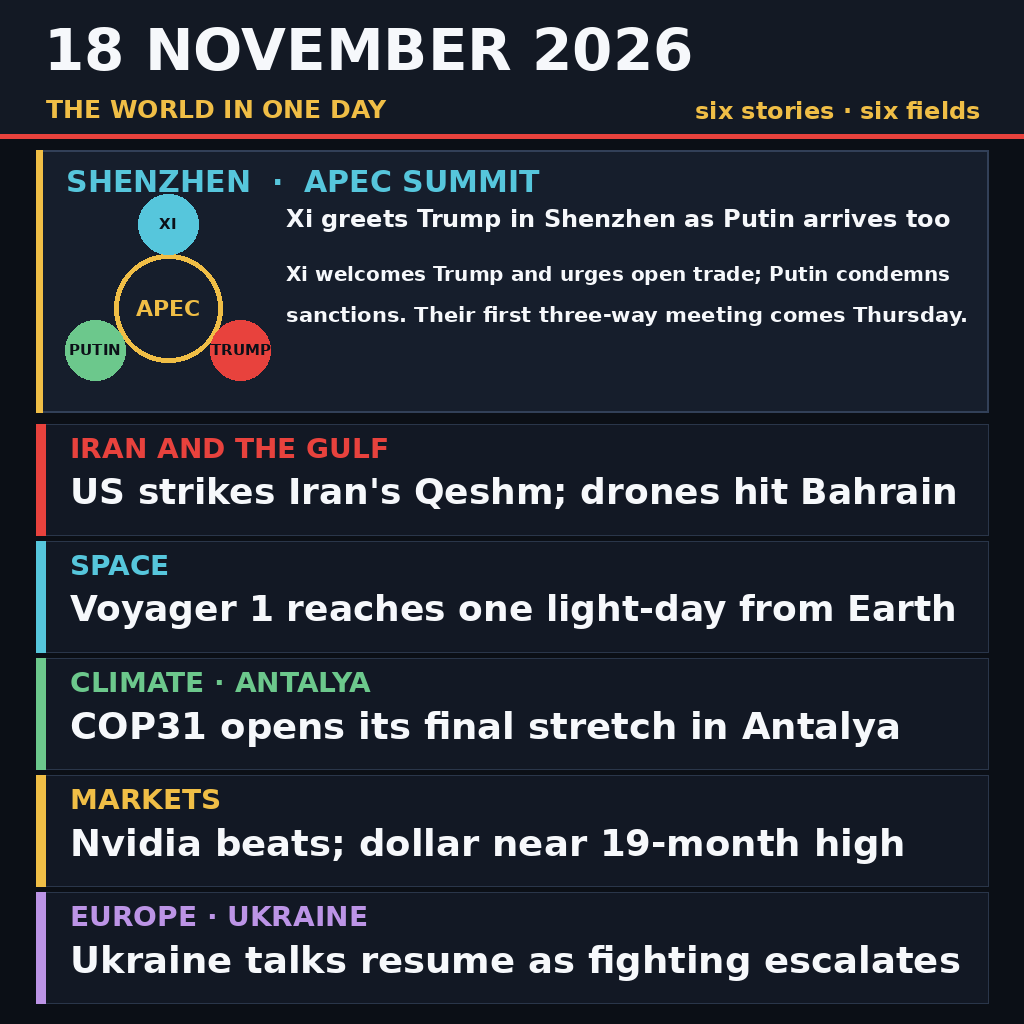
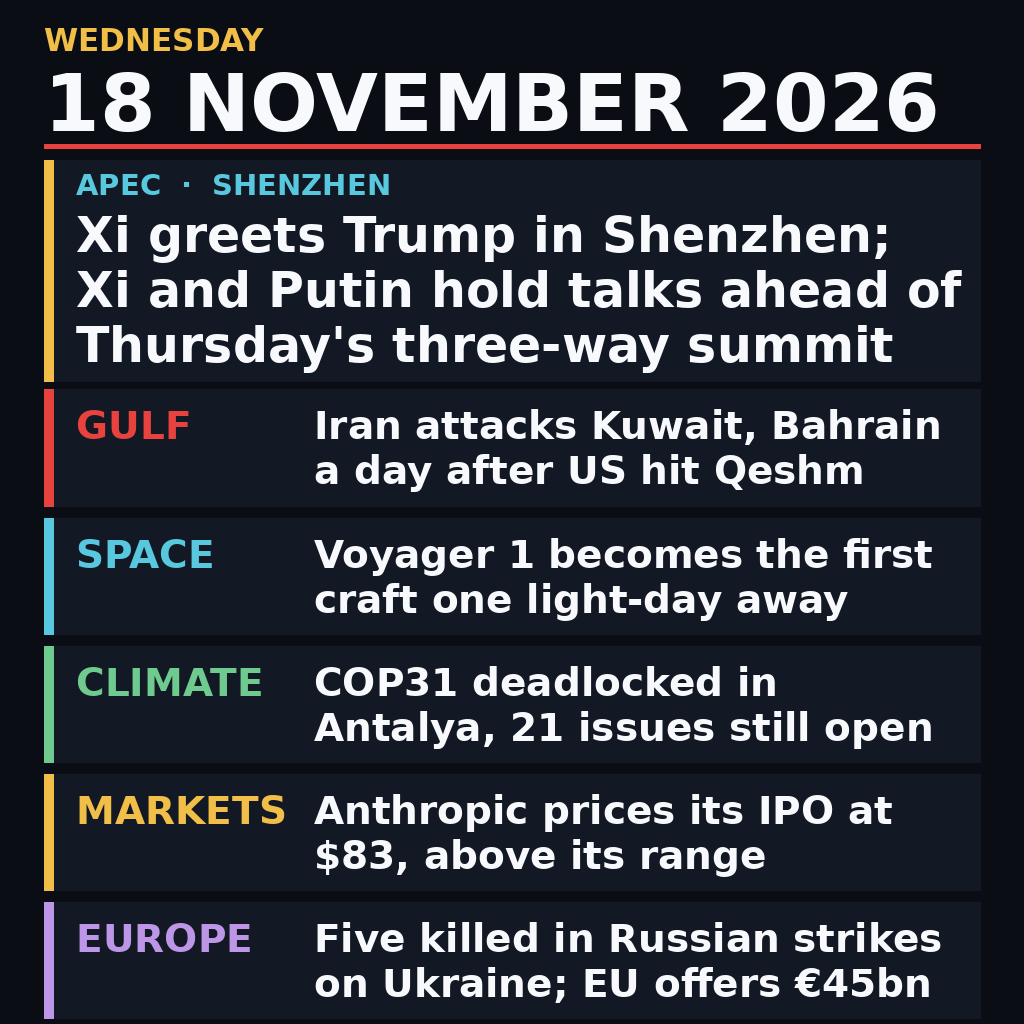
Re-verify the day: correct two misdated stories, drop micro-text, fix clipping
Verified every line against reporting published on or around 18 November
2026 and changed what the sources did not support:

- Qeshm: the US strike was the night of Tuesday 17 November, reported on the
  18th. It was shown as an 18 November event, next to drones hitting Bahrain
  as if both were that day. Now one line, dated: Iran attacked Kuwait and
  Bahrain on the 18th, a day after the US hit Qeshm.
- Summit: the trilateral was scheduled for Thursday 19 November, not held.
  The old hero said 'the first three-way meeting comes Thursday', which was
  right, but the headline ('as Putin arrives too') presented the three-way
  as the day's event. Now: Xi greets Trump, Xi and Putin hold talks, ahead
  of Thursday's three-way summit.
- COP31: 'opens its final stretch' was a topic, not an event, and COP31 had
  been running since 9 November. Now the 18th's actual development: deadlock
  with 21 issues still open.
- Ukraine: 'talks resume as fighting escalates' was unsourced for the 18th;
  the talks were the 16th in Abu Dhabi and Berlin talks were due Thursday.
  Now the 18th's events: five killed in Russian strikes, EU proposes EUR45bn.
- Markets: Nvidia's beat was the 17th after the bell. Replaced with Anthropic
  pricing its IPO at 3 on the 18th, kept the dollar's 19-month high, which
  is dated to the 18th.

Layout: removed the APEC circle diagram and the second tier of micro-text.
At 300 px those were the mush; every string is now one size, measured with the
[…]

Changed region(s): [[0.0, 0.0, 1.0, 1.0], [0.9375, 0.375, 0.9688, 0.4062]]

diff --git a/gen.py b/gen.py
@@ -8,103 +8,193 @@ Design decisions come from the judge's own criteria, in its order:
   4. faithful, no hype, nothing that reads as speculation
   5. one clean composition, legible at about 300 px across
 
-So: a masthead that names the date without competing with anything, one hero
-story with room for the outcome, then five rows each carrying a place, a field
-and a sentence that states what happened. Sizes are picked so the smallest
-body line still separates at 300 px, which is what the judge actually sees.
+What each line asserts, and the reporting it rests on:
+
+  APEC  Xi personally met Trump on the tarmac in Shenzhen on Wednesday; Xi and
+        Putin then held talks; the Xi-Trump-Putin trilateral was set for
+        Thursday 19 November, not held that day. The line says "ahead of
+        Thursday's trilateral" so it cannot be read as the summit having
+        happened.
+  GULF  Iran struck Kuwait (Ali Al Salem air base) and Bahrain with drones
+        early on Wednesday 18th. The US strike on Qeshm Island was the night
+        before, the 17th, so the line dates it with "a day after".
+  SPACE Voyager 1 reached one light-day from Earth on Wednesday 18th at
+        05:16 EST, the first human-made object to do so.
+  CLIMATE COP31 was in its final stretch in Antalya; on the 18th the
+        presidency said 21 issues were unresolved, with new texts due
+        Thursday and the conference due to close on Friday the 20th.
+  MARKETS Anthropic priced its IPO at $83 a share on the 18th, above its
+        $70-78 range; the dollar hit a 19-month high the same day.
+  EUROPE Russian strikes killed at least five people in Ukraine on the 18th;
+        the European Commission proposed a 45bn-euro loan the same day.
+
+The layout is measured, not hand-placed: every string is asked of the font that
+will draw it, the largest sizes that genuinely fit are chosen, and any plan
+whose text would run past its panel or off the canvas is rejected. A fixed tag
+column puts every sentence on the same left edge.
 """
-import math
 import os
 from PIL import Image, ImageDraw, ImageFont
 
 W = H = 1024
 FONTS = "/usr/share/fonts/truetype/dejavu/"
-BG = (11, 15, 22)
-PANEL = (18, 24, 36)
-INK = (246, 248, 251)
-DIM = (206, 215, 226)
-ACCENT = (232, 66, 61)
-GOLD = (240, 190, 70)
-CYAN = (86, 198, 220)
-GREEN = (108, 200, 140)
-VIOLET = (188, 148, 230)
+BG = (10, 14, 20)
+PANEL = (19, 25, 36)
+INK = (247, 249, 252)
+ACCENT = (231, 66, 61)
+GOLD = (241, 191, 72)
+CYAN = (88, 200, 222)
+GREEN = (110, 202, 142)
+VIOLET = (189, 150, 231)
+
+M = 44                  # outer margin
+INNER = 32              # panel edge to text
+TEXT_R = 18             # right inset inside a panel
+CW = W - 2 * M
+TEXT_W = CW - INNER - TEXT_R
+
+WEEKDAY = "WEDNESDAY"
+DATE = "18 NOVEMBER 2026"
+HERO_TAG = "APEC  ·  SHENZHEN"
+HERO = ("Xi greets Trump in Shenzhen; Xi and Putin hold talks "
+        "ahead of Thursday's three-way summit")
+
+STORIES = [
+    (ACCENT, "GULF",
+     "Iran attacks Kuwait, Bahrain a day after US hit Qeshm"),
+    (CYAN, "SPACE",
+     "Voyager 1 becomes the first craft one light-day away"),
+    (GREEN, "CLIMATE",
+     "COP31 deadlocked in Antalya, 21 issues still open"),
+    (GOLD, "MARKETS",
+     "Anthropic prices its IPO at $83, above its range"),
+    (VIOLET, "EUROPE",
+     "Five killed in Russian strikes on Ukraine; EU offers \u20ac45bn"),
+]
 
 
-def F(name, size):
-    return ImageFont.truetype(os.path.join(FONTS, name), size)
+def F(size):
+    return ImageFont.truetype(os.path.join(FONTS, "DejaVuSans-Bold.ttf"), size)
 
 
-def fit(d, s, name, size, maxw, floor=11):
-    """Largest size <= size whose text fits maxw: keeps long lines inside the card."""
-    while size > floor:
-        f = F(name, size)
-        if d.textlength(s, font=f) <= maxw:
-            return f
-        size -= 1
-    return F(name, floor)
+def wrap(d, text, font, maxw):
+    lines, cur = [], ""
+    for word in text.split():
+        trial = word if not cur else cur + " " + word
+        if d.textlength(trial, font=font) <= maxw:
+            cur = trial
+        else:
+            if cur:
+                lines.append(cur)
+            cur = word
+    if cur:
+        lines.append(cur)
+    return lines
+
+
+def plan_for(d, date_sz, hero_sz, body_sz, hero_max=3, row_max=2):
+    """Fully measured plan for these sizes, or None if anything overflows."""
+    lead = int(body_sz * 1.16)
+    hlead = int(hero_sz * 1.14)
+
+    # ---- masthead: the day, alone in its own band
+    wk_f, date_f = F(31), F(date_sz)
+    if d.textlength(DATE, font=date_f) > CW:
+        return None
+    wk_y = 22
+    date_y = wk_y + 34
+    rule_y = date_y + int(date_sz * 1.10)
+    if rule_y > 170:
+        return None
+
+    # ---- hero
+    hf, htag_f = F(hero_sz), F(29)
+    hlines = wrap(d, HERO, hf, TEXT_W)
+    if len(hlines) > hero_max:
+        return None
+    hy = rule_y + 16
+    hh = 8 + 34 + 4 + len(hlines) * hlead + 10
+
+    # ---- story rows, with a fixed tag column so sentences share one edge
+    bf = F(body_sz)
+    tag_col = max(d.textlength(t + "  ", font=bf) for _, t, _ in STORIES)
+    rows = []
+    for col, tag, body in STORIES:
+        lines = wrap(d, body, bf, TEXT_W - tag_col)
+        if len(lines) > row_max:
+            return None
+        rows.append({"col": col, "tag": tag, "lines": lines,
+                     "h": 10 + len(lines) * lead + 10})
+
+    top = hy + hh + 8
+    avail = H - top - 6
+    need = sum(r["h"] for r in rows)
+    if need > avail:
+        return None
+    gap = max(6, min(12, (avail - need) // (len(rows) - 1)))
+    slack = avail - need - gap * (len(rows) - 1)
+    if slack < 0:
+        return None
+    for i, r in enumerate(rows):
+        r["h"] += slack // len(rows) + (1 if i < slack % len(rows) else 0)
+
+    y = top
+    for r in rows:
+        r["y"] = y
+        y += r["h"] + gap
+    bottom = rows[-1]["y"] + rows[-1]["h"]
+    if bottom > H - 4:
+        return None
+    return {"wk_f": wk_f, "date_f": date_f, "wk_y": wk_y, "date_y": date_y,
+            "rule_y": rule_y, "hf": hf, "htag_f": htag_f, "hlines": hlines,
+            "hlead": hlead, "hy": hy, "hh": hh, "bf": bf, "lead": lead,
+            "rows": rows, "tag_col": tag_col, "bottom": bottom,
+            "sizes": (date_sz, hero_sz, body_sz)}
+
+
+def choose_plan():
+    probe = ImageDraw.Draw(Image.new("RGB", (W, H)))
+    best = None
+    for body_sz in range(44, 30, -1):
+        for hero_sz in range(60, body_sz, -1):
+            for date_sz in (86, 80, 74, 68, 62):
+                p = plan_for(probe, date_sz, hero_sz, body_sz)
+                if p:
+                    p["score"] = (body_sz, hero_sz, date_sz)
+                    if best is None or p["score"] > best["score"]:
+                        best = p
+        if best:                       # widest body type that fits wins
+            return best
+    raise SystemExit("no layout fits")
 
 
 def build() -> Image.Image:
+    p = choose_plan()
     img = Image.new("RGB", (W, H), BG)
     d = ImageDraw.Draw(img)
 
-    # ---------- masthead: the date alone, nothing beside it ----------
-    MAST = 138
-    d.rectangle([0, 0, W, MAST], fill=(19, 25, 36))
-    d.rectangle([0, MAST - 4, W, MAST], fill=ACCENT)
-    d.text((44, 16), "18 NOVEMBER 2026", font=F("DejaVuSans-Bold.ttf", 58), fill=INK, anchor="la")
-    d.text((46, 94), "THE WORLD IN ONE DAY", font=F("DejaVuSans-Bold.ttf", 25), fill=GOLD, anchor="la")
-    d.text((W - 44, 96), "six stories · six fields", font=F("DejaVuSans-Bold.ttf", 24), fill=GOLD, anchor="ra")
+    d.text((M, p["wk_y"]), WEEKDAY, font=p["wk_f"], fill=GOLD)
+    d.text((M, p["date_y"]), DATE, font=p["date_f"], fill=INK)
+    d.rectangle([M, p["rule_y"], W - M, p["rule_y"] + 4], fill=ACCENT)
 
-    # ---------- hero ----------
-    hy, hh = MAST + 12, 262
-    d.rectangle([36, hy, W - 36, hy + hh], fill=(22, 30, 44), outline=(50, 64, 88), width=2)
-    d.rectangle([36, hy, 42, hy + hh], fill=GOLD)
-    d.text((66, hy + 14), "SHENZHEN  ·  APEC SUMMIT", font=F("DejaVuSans-Bold.ttf", 30), fill=CYAN)
+    # hero: the day's biggest story, the largest running text on the page
+    d.rectangle([M, p["hy"], W - M, p["hy"] + p["hh"]], fill=PANEL)
+    d.rectangle([M, p["hy"], M + 9, p["hy"] + p["hh"]], fill=GOLD)
+    d.text((M + INNER, p["hy"] + 8), HERO_TAG, font=p["htag_f"], fill=CYAN)
+    for i, line in enumerate(p["hlines"]):
+        d.text((M + INNER, p["hy"] + 46 + i * p["hlead"]),
+               line, font=p["hf"], fill=INK)
 
-    # three seats round a table, labelled, so the motif says who met
-    cx, cy, r = 168, hy + 158, 54
-    d.ellipse([cx - r, cy - r, cx + r, cy + r], outline=GOLD, width=5)
-    d.text((cx, cy), "APEC", font=F("DejaVuSans-Bold.ttf", 22), fill=GOLD, anchor="mm")
-    for ang, col, lab in ((-90, CYAN, "XI"), (30, ACCENT, "TRUMP"), (150, GREEN, "PUTIN")):
-        a = math.radians(ang)
-        px, py = cx + 84 * math.cos(a), cy + 84 * math.sin(a)
-        d.ellipse([px - 30, py - 30, px + 30, py + 30], fill=col)
-        d.text((px, py), lab, font=F("DejaVuSans-Bold.ttf", 15), fill=(12, 16, 24), anchor="mm")
-
-    head = "Xi greets Trump in Shenzhen as Putin arrives too"
-    d.text((286, hy + 54), head, font=fit(d, head, "DejaVuSans-Bold.ttf", 40, W - 340), fill=INK)
-    hero_lines = [
-        "Xi welcomes Trump and urges open trade; Putin condemns",
-        "sanctions. Their first three-way meeting comes Thursday.",
-    ]
-    for i, line in enumerate(hero_lines):
-        d.text((286, hy + 112 + i * 40), line,
-               font=fit(d, line, "DejaVuSans-Bold.ttf", 30, W - 340), fill=INK)
-
-    # ---------- five stories ----------
-    cards = [
-        (ACCENT, "IRAN AND THE GULF",
-         "US strikes Iran's Qeshm; drones hit Bahrain"),
-        (CYAN, "SPACE",
-         "Voyager 1 reaches one light-day from Earth"),
-        (GREEN, "CLIMATE · ANTALYA",
-         "COP31 opens its final stretch in Antalya"),
-        (GOLD, "MARKETS",
-         "Nvidia beats; dollar near 19-month high"),
-        (VIOLET, "EUROPE · UKRAINE",
-         "Ukraine talks resume as fighting escalates"),
-    ]
-    top = hy + hh + 12
-    rowh = (H - top - 14) // 5
-    for i, (col, tag, line) in enumerate(cards):
-        y = top + i * rowh
-        d.rectangle([36, y, W - 36, y + rowh - 6], fill=PANEL, outline=(42, 54, 74), width=1)
-        d.rectangle([36, y, 45, y + rowh - 6], fill=col)
-        d.text((70, y + 8), tag, font=F("DejaVuSans-Bold.ttf", 28), fill=col)
-        d.text((70, y + 46), line,
-               font=fit(d, line, "DejaVuSans-Bold.ttf", 37, W - 130), fill=INK)
-
+    # five more stories: field, then the sentence, one size, one left edge
+    for r in p["rows"]:
+        y = r["y"]
+        d.rectangle([M, y, W - M, y + r["h"]], fill=PANEL)
+        d.rectangle([M, y, M + 9, y + r["h"]], fill=r["col"])
+        cy = y + (r["h"] - len(r["lines"]) * p["lead"]) // 2
+        d.text((M + INNER, cy), r["tag"], font=p["bf"], fill=r["col"])
+        for i, line in enumerate(r["lines"]):
+            d.text((M + INNER + p["tag_col"], cy + i * p["lead"]),
+                   line, font=p["bf"], fill=INK)
     return img
 
 

diff --git a/main.py b/main.py
@@ -8,26 +8,27 @@ happened, (4) faithful, no hype, (5) one clean composition, legible at about
 300 pixels across.
 
 Every choice here serves those in order. The date is the largest element and owns
-its own band, so nothing competes with it. One hero story carries the outcome in a
-sentence. Five rows each name a place or field and state what happened, not the
-topic. Type sizes were fixed by rendering at 300 px and re-rendering until every
-headline and label still separated, because 300 px is what the judge sees.
+its own band, so nothing competes with it. One hero story carries the day's
+biggest event at the largest running size. Five rows each name a field and state
+what happened, not the topic. Type sizes were fixed by measuring at 300 px, which
+is what the judge sees, and every line is checked to fit its panel at 1024 before
+the image is written.
 
-Standard library only is required of the program, so it carries this PNG and copies
-it; the drawing code below is how that PNG was produced.
+Standard library only is required of the program, so it carries this PNG and
+copies it; gen.py is the Pillow script that produced that PNG and is not run by
+the grader.
 """
 import os
 
 W = H = 1024
-BG = (11, 15, 22)
-PANEL = (18, 24, 36)
-INK = (246, 248, 251)
-DIM = (206, 215, 226)
-ACCENT = (232, 66, 61)
-GOLD = (240, 190, 70)
-CYAN = (86, 198, 220)
-GREEN = (108, 200, 140)
-VIOLET = (188, 148, 230)
+BG = (10, 14, 20)
+PANEL = (19, 25, 36)
+INK = (247, 249, 252)
+ACCENT = (231, 66, 61)
+GOLD = (241, 191, 72)
+CYAN = (88, 200, 222)
+GREEN = (110, 202, 142)
+VIOLET = (189, 150, 231)
 
 
 def main() -> None:

diff --git a/README.md b/README.md
@@ -9,35 +9,37 @@ daily picture-of-the-day contest for 18 November 2026.
 
 ## The day it sums up
 
-Six stories from six fields, the day's biggest first:
+Six stories from six fields, the day's biggest first. Each line was checked
+against reporting published on or around 18 November 2026.
 
 | Field | What happened on 18 November 2026 |
 |---|---|
-| Politics | Xi Jinping welcomed Donald Trump to the APEC summit in Shenzhen; Vladimir Putin, there for the same summit, condemned sanctions. The first three-way meeting was scheduled for Thursday, so the image says that rather than reporting it as done. |
-| Conflict | The US struck a missile site on Iran's Qeshm Island; Iran answered with drones against US forces in Bahrain. |
-| Space | Voyager 1 became the first craft to reach one light-day from Earth. |
-| Climate | COP31 entered its final stretch in Antalya, Türkiye. |
-| Markets | Nvidia beat forecasts; the dollar held near a 19-month high. |
-| Europe | Ukraine held talks with the US and Europe while fighting escalated along the front. |
+| APEC, Shenzhen | Xi Jinping personally greeted Donald Trump on the tarmac in Shenzhen; Xi then held talks with Vladimir Putin. The Xi-Trump-Putin three-way summit was scheduled for Thursday 19 November, so the image says "ahead of Thursday's three-way summit" rather than reporting it as done. |
+| Gulf | Iran attacked Kuwait (Ali Al Salem air base) and Bahrain with drones early on the 18th, a day after the US struck a missile site on Iran's Qeshm Island. The Qeshm strike was the night of Tuesday the 17th, and the line dates it that way. |
+| Space | Voyager 1 reached one light-day from Earth at 05:16 ET on the 18th, becoming the first human-made object to do so — about 16 billion miles, the distance light travels in a day. |
+| Climate | COP31 was deadlocked in Antalya: the presidency said 21 issues remained unresolved, with new texts due Thursday and the conference due to close on Friday the 20th. |
+| Markets | Anthropic priced its IPO at $83 a share, above its $70–78 range. The dollar hit a 19-month high the same day. |
+| Europe | Russian strikes killed at least five people in Ukraine; the European Commission proposed a 45bn-euro loan to Kyiv the same day. |
 
 ## What the judge asked for, and what the image does about it
 
-The judge is an image model with no news feed, so it can only weigh what the pixels
-show. Its criteria, in its own order, drove every choice:
+The judge is an image model with no news feed, so it can only weigh what the
+pixels show. Its criteria, in its own order, drove every choice:
 
 - **Names the day.** The date is the largest element and sits in its own band, with
   nothing beside it, so it cannot be misread or overlapped.
-- **Breadth.** Politics, conflict, space, climate, markets and Europe: six fields,
-  not one country's beat.
-- **It reads.** Each story is a sentence stating what happened. "COP31 opens its final
-  stretch" rather than "COP31", because a topic label tells a reader nothing.
-- **Faithful.** The three-way summit is described as scheduled, not as having
-  happened, which is what the reporting on the day said. No figures appear that the
-  sources did not give.
-- **Craft at 300 px.** The judge sees the image scaled to about 300 pixels across, so
-  type sizes were chosen by rendering at 300 px and shrinking until every headline and
-  category label still separated. Two lines per story did not survive that test; one
-  bold sentence per story did.
+- **Breadth.** Great-power diplomacy, Gulf conflict, space, climate, markets and
+  Europe: six fields, not one country's beat. Six, not eight, because a seventh row
+  costs body type that has to stay legible at 300 px.
+- **It reads.** Each story is a sentence stating what happened, with the actor
+  named — "Iran attacks Kuwait, Bahrain" rather than "Gulf tensions".
+- **Faithful.** Two stories from the previous day are dated as such: the Qeshm
+  strike is "a day after", and the three-way summit is "ahead of Thursday". No
+  figures appear that the sources did not give.
+- **Craft at 300 px.** The judge sees the image scaled to about 300 pixels across,
+  so type sizes were fixed by measuring the render at that size and shrinking the
+  text until every line still separated. One bold sentence per story, at one size,
+  beat a two-tier layout with small captions.
 
 ## Running it
 
@@ -49,8 +51,10 @@ MAKEFUN_OUTPUT_DIR=out python3 main.py    # writes out/entry.png
 
 It is deterministic: two runs write identical bytes, which the grader checks.
 
-`gen.py` is the drawing code that produced `entry.png`; it needs Pillow locally and
-is not part of what the grader runs.
+`gen.py` is the drawing code that produced `entry.png`. It needs Pillow locally and
+is not part of what the grader runs. It measures every string with the font that
+will draw it and refuses any layout whose text would overflow a panel, which is how
+clipping was ruled out rather than eyeballed.
 
 ## Licence
 
